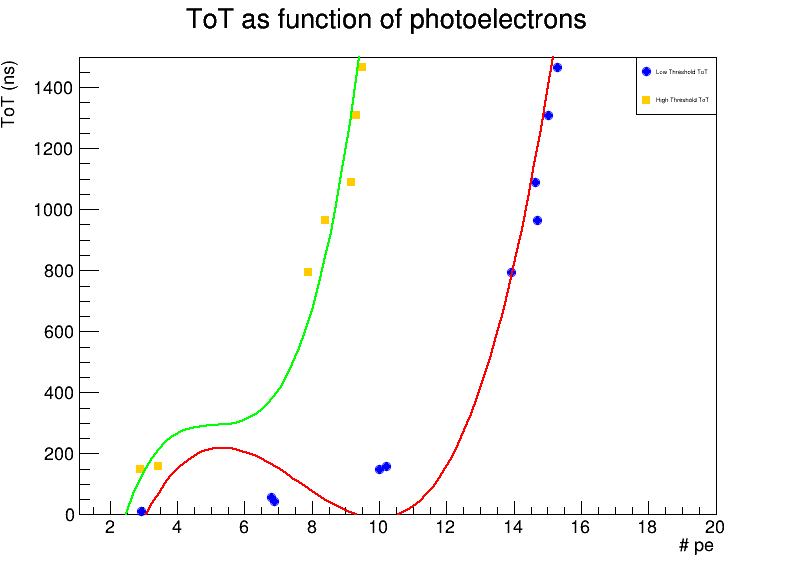
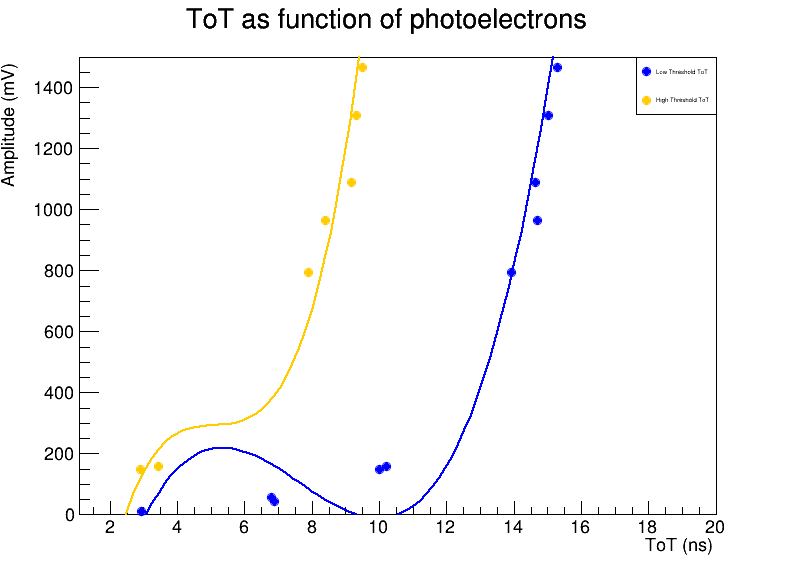
new commit

diff --git a/time_distribution_graph.C b/time_distribution_graph.C
@@ -241,15 +241,15 @@ int main() {
     TCanvas *c1 = new TCanvas("c1", "N vs ToT", 800, 600);
 
     // Disegna il primo grafico
-    gr_low->SetTitle("ToT as function of photoelectrons ;# pe;ToT (ns)");
+    gr_low->SetTitle("ToT as function of photoelectrons ;ToT (ns);Amplitude (mV)");
     gr_low->SetMarkerStyle(20); // Imposta lo stile dei punti
     gr_low->SetMarkerColor(kBlue);
     gr_low->GetYaxis()->SetRangeUser(0,1500);
-    gr_low->GetXaxis()->SetRangeUser(0, 20);
+    gr_low->GetXaxis()->SetRangeUser(0.01, 20);
     gr_low->Draw("AP");
 
     // Disegna il secondo grafico sullo stesso canvas
-    gr_high->SetMarkerStyle(21); // Imposta lo stile dei punti
+    gr_high->SetMarkerStyle(20); // Imposta lo stile dei punti
     gr_high->SetMarkerColor(kOrange);
     gr_high->Draw("P same");
 
@@ -260,18 +260,18 @@ int main() {
     legend->Draw();
 
     // Esegui il fitting dei dati
-    TF1 *fit_low = new TF1("fit_low", "pol3", -0.01, 1470); // Fitting con un polinomio di secondo grado
-    TF1 *fit_high = new TF1("fit_high", "pol3", -0.01, 1470);
+    TF1 *fit_low = new TF1("fit_low", "pol3", 0.01, 20); // Fitting con un polinomio di secondo grado
+    TF1 *fit_high = new TF1("fit_high", "pol3", 0.01, 200);
 
     gr_low->Fit(fit_low, "R");
     gr_high->Fit(fit_high, "R");
 
     // Aggiungi le funzioni di fit al grafico
-    fit_low->SetLineColor(kRed);
+    fit_low->SetLineColor(kBlue);
     fit_low->SetLineWidth(2);
     fit_low->Draw("same");
 
-    fit_high->SetLineColor(kGreen);
+    fit_high->SetLineColor(kOrange);
     fit_high->SetLineWidth(2);
     fit_high->Draw("same");
 
